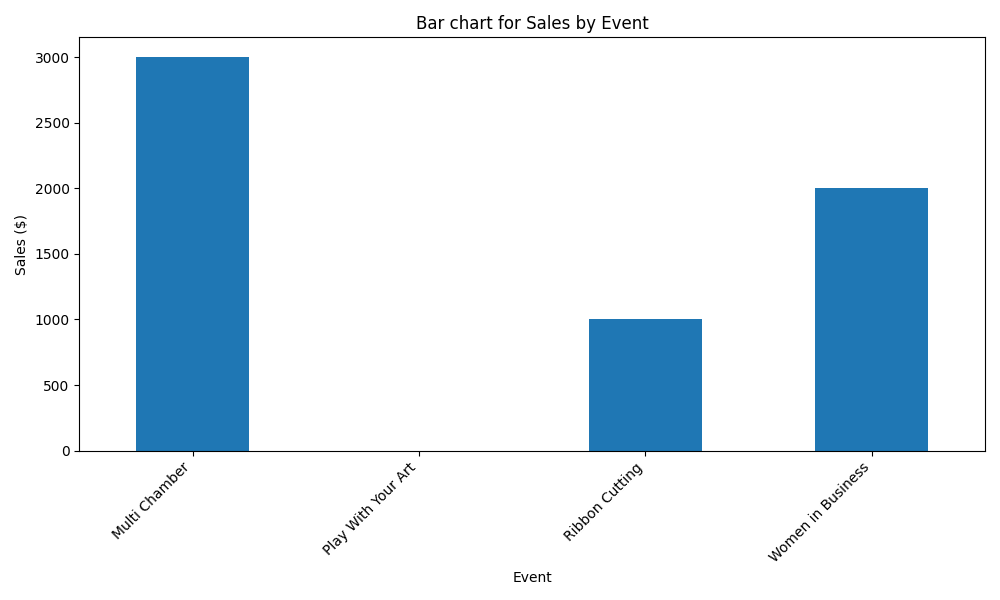
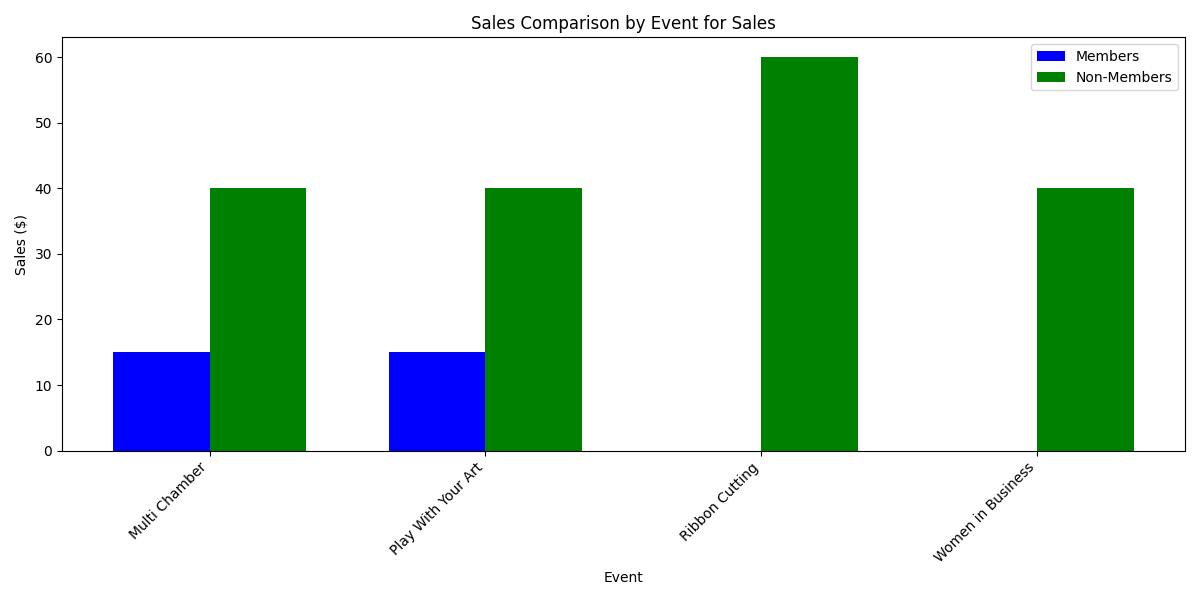
Automatic calculations for sales based on member/non-member attendance

diff --git a/EventsModeler.py b/EventsModeler.py
@@ -29,16 +29,33 @@ class EventsModeler:
                 plt.pie(values, labels=labels, autopct='%1.1f%%', startangle=140)
                 plt.title(f"Visualization for {query}")
             elif query == "Sales":
-                counts = data["Did you pay for this event?"].value_counts()
-                labels = ["Paid", "Unpaid"]
-                sales = 0
-                for val in counts.values():
-                    if val == "Yes":
-                        sales += 1000
-                values = counts.values
-                plt.figure(figsize=(8, 6))
-                plt.pie(values, labels=labels, autopct='%1.1f%%', startangle=140)
-                plt.title(f"Visualization for {query}")
+                member_sales = 0
+                non_member_sales = 0
+                for e in data["Are you a member of Waltham Chamber of Commerce"]:
+                    if str(e)== "Member":
+                        member_sales += 15
+                    else:
+                        non_member_sales += 20
+                
+                # Total sales
+                total_sales = member_sales + non_member_sales
+                sales_data = [member_sales, non_member_sales]
+                # Prepare data for the bar chart
+                
+                # Plot the bar chart for sales
+                plt.figure(figsize=(10, 6))
+                plt.bar(["Members", "Non-Members"], sales_data, color=["blue", "green"])
+                plt.title(f"Bar chart for {query}")
+                plt.xlabel('Membership Status')
+                plt.ylabel('Sales ($)')
+                plt.tight_layout()
+                
+                # Save the visualization
+                visualization_path = os.path.join(output_folder, f"{query.replace(' ', '_')}_bar.png")
+                plt.savefig(visualization_path)
+                plt.close()
+                
+                return visualization_path
             else:
                 raise ValueError(f"Unknown query: {query}")
 
@@ -85,21 +102,41 @@ class EventsModeler:
                 return visualization_path
 
             elif query == "Sales":
-                # Count how many people paid for each event, and multiply by $1,000
-                sales_counts = data.groupby("Event")["Did you pay for this event?"].value_counts().unstack(fill_value=0)
-                # Get only 'Yes' counts and multiply by 1000 for the dollar amount
-                sales_amount = sales_counts.get("Yes", 0) * 1000
-                plt.figure(figsize=(10, 6))
-                sales_amount.plot(kind='bar')
-                plt.title(f"Bar chart for {query} by Event")
+                # Group by Event and Membership Status and calculate the sum of sales
+                sales_data = data.groupby(['Event', 'Are you a member of Waltham Chamber of Commerce']).size().unstack(fill_value=0)
+
+                # Calculate sales for members and non-members
+                sales_data["Member Sales"] = sales_data.get("Member", 0) * 15
+                sales_data["Non-Member Sales"] = sales_data.get("Non-member", 0) * 20
+
+                # Prepare data for the bar chart
+                events = sales_data.index
+                member_sales = sales_data["Member Sales"]
+                non_member_sales = sales_data["Non-Member Sales"]
+
+                # Plot the bar chart for sales comparison across multiple events
+                width = 0.35  # Bar width
+                x = range(len(events))  # X-axis positions for the events
+
+                plt.figure(figsize=(12, 6))
+                plt.bar(x, member_sales, width, label="Members", color="blue")
+                plt.bar([p + width for p in x], non_member_sales, width, label="Non-Members", color="green")
+
+                plt.title(f"Sales Comparison by Event for {query}")
                 plt.xlabel('Event')
                 plt.ylabel('Sales ($)')
-                plt.xticks(rotation=45, ha='right')
-                plt.tight_layout()
+                plt.xticks([p + width / 2 for p in x], events, rotation=45, ha="right")
+                plt.legend()
+
+                # Save the visualization
                 visualization_path = os.path.join(output_folder, f"{query.replace(' ', '_')}_bar.png")
+                plt.tight_layout()
                 plt.savefig(visualization_path)
                 plt.close()
+
                 return visualization_path
+
+
 
 
             else:
